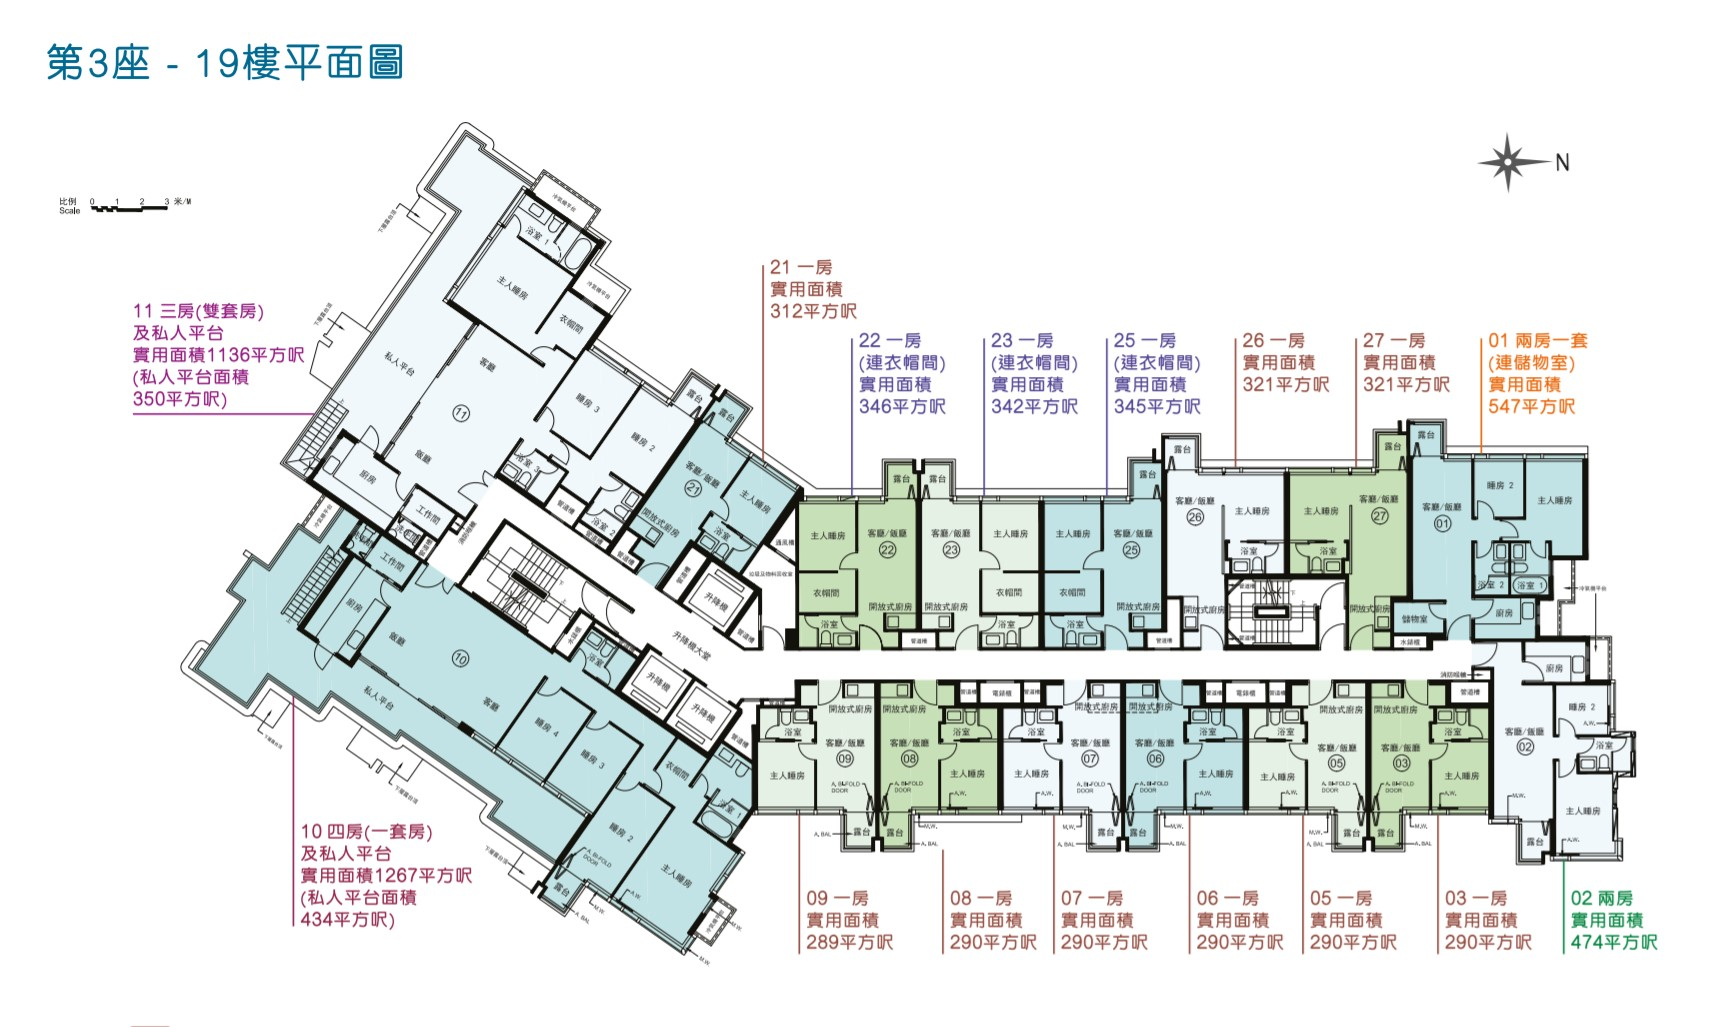
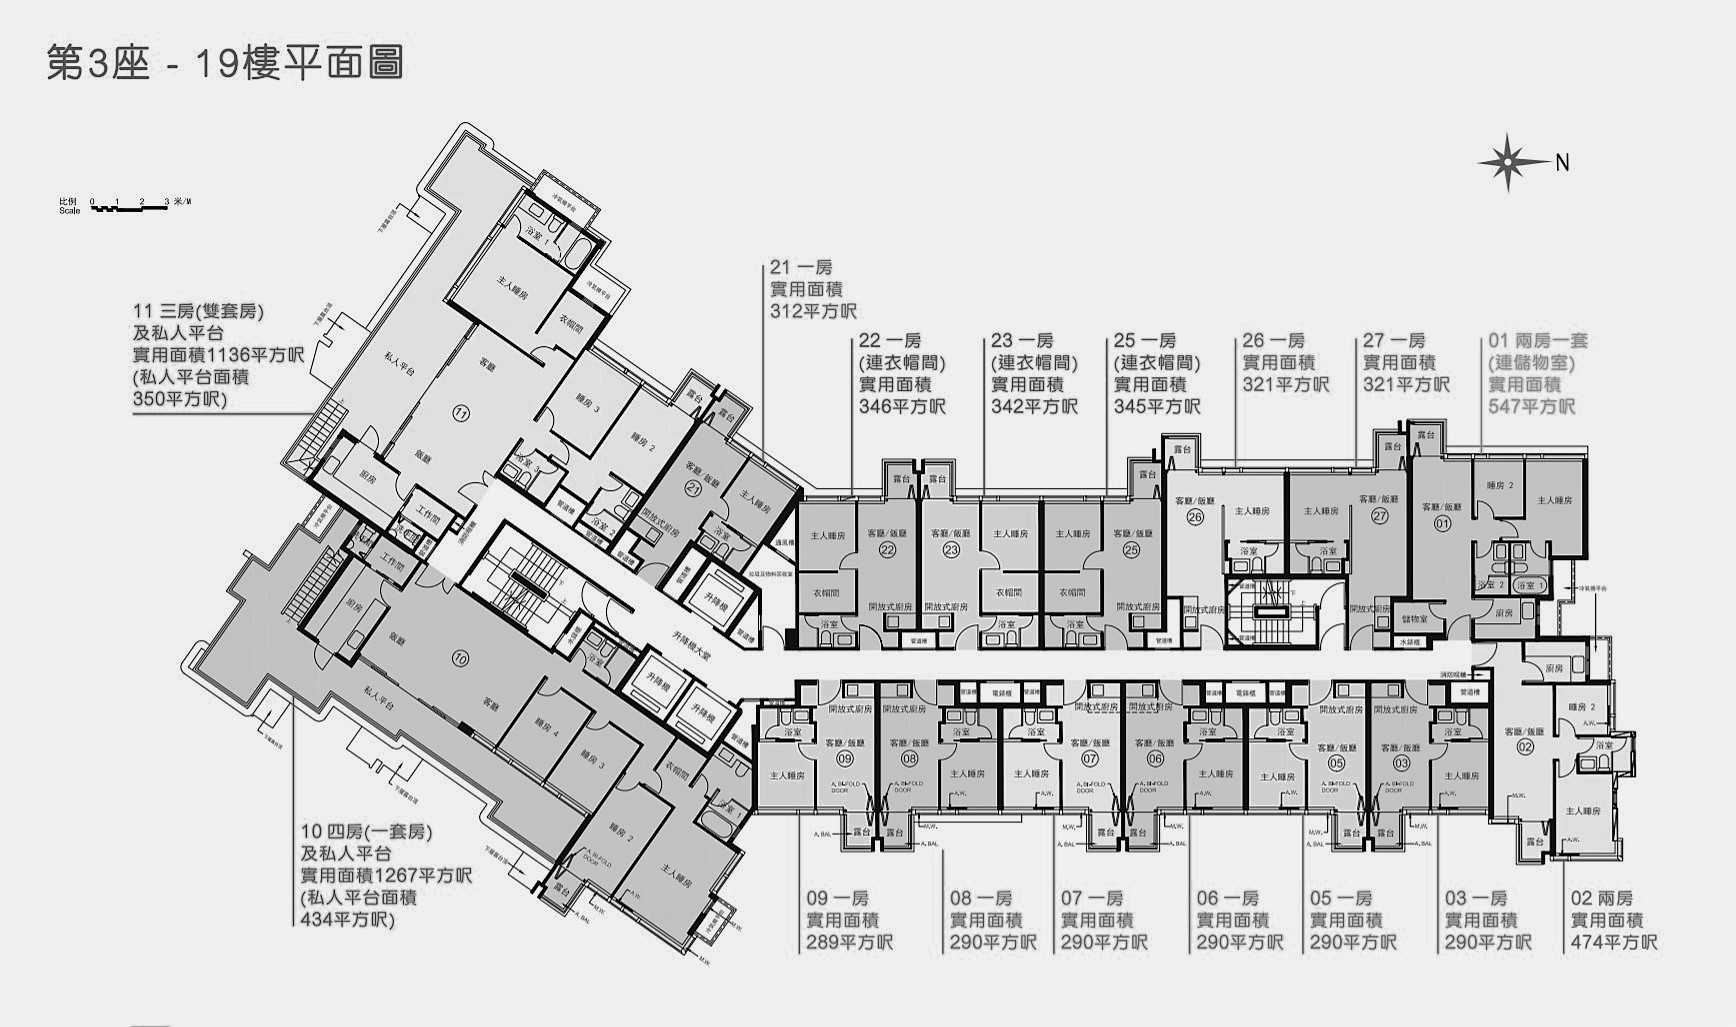
With wall extractor

diff --git a/Get_walls.py b/Get_walls.py
@@ -1,0 +1,56 @@
+#Import packages
+import os
+import cv2
+import numpy as np
+import tensorflow as tf
+import sys
+
+# This is needed since the notebook is stored in the object_detection folder.
+sys.path.append("..")
+
+# Import utilites
+# from utils import label_map_util
+# from utils import visualization_utils as vis_util
+
+# Name of the directory containing the object detection module we're using
+MODEL_NAME = 'inference_graph'
+IMAGE_NAME = 'WCH GBP.png'
+#Remove Small Items
+im_gray = cv2.imread(IMAGE_NAME, cv2.IMREAD_GRAYSCALE)
+(thresh, im_bw) = cv2.threshold(im_gray, 128, 255, cv2.THRESH_BINARY | cv2.THRESH_OTSU)
+thresh =170
+im_bw = cv2.threshold(im_gray, thresh, 255, cv2.THRESH_BINARY)[1]
+#find all your connected components
+nb_components, output, stats, centroids = cv2.connectedComponentsWithStats(im_bw, connectivity=8)
+#connectedComponentswithStats yields every seperated component with information on each of them, such as size
+#the following part is just taking out the background which is also considered a component, but most of the time we don't want that.
+sizes = stats[1:, -1]; nb_components = nb_components - 1
+
+# minimum size of particles we want to keep (number of pixels)
+#here, it's a fixed value, but you can set it as you want, eg the mean of the sizes or whatever
+min_size =100
+
+#your answer image
+img2 = np.zeros((output.shape))
+#for every component in the image, you keep it only if it's above min_size
+for i in range(0, nb_components):
+    if sizes[i] >= min_size:
+        img2[output == i + 1] = 255
+
+cv2.imshow('room detector', img2)
+#MorphologicalTransform
+kernel = np.ones((5, 5), np.uint8)
+dilation = cv2.dilate(img2, kernel)
+erosion = cv2.erode(img2, kernel, iterations=6)
+
+#cv2.imshow("img2", img2)
+cv2.imshow("Dilation", dilation)
+cv2.imwrite("Dilation.jpg", dilation)
+#cv2.imshow("Erosion", erosion)
+
+
+# Press any key to close the image
+cv2.waitKey(0)
+
+# Clean up
+cv2.destroyAllWindows()

diff --git a/Thershold.py b/Thershold.py
@@ -1,0 +1,24 @@
+#!/usr/bin/env python3
+# -*- coding: utf-8 -*-
+import cv2
+import numpy as np
+from matplotlib import pyplot as plt
+
+img = cv2.imread('WCH GBP.png', 0)
+img = cv2.medianBlur(img, 5)
+
+ret, th1 = cv2.threshold(img, 127, 255, cv2.THRESH_BINARY)
+th2 = cv2.adaptiveThreshold(img, 255, cv2.ADAPTIVE_THRESH_MEAN_C,\
+    cv2.THRESH_BINARY, 11, 2)
+th3 = cv2.adaptiveThreshold(img, 255, cv2.ADAPTIVE_THRESH_GAUSSIAN_C,\
+    cv2.THRESH_BINARY, 11, 2)
+
+titles = ['Original Image', 'Global Thresholding (v = 127)',
+            'Adaptive Mean Thresholding', 'Adaptive Gaussian Thresholding']
+images = [img, th1, th2, th3]
+
+for i in range(4):
+    plt.subplot(2, 2, i+1), plt.imshow(images[i], 'gray')
+    plt.title(titles[i])
+    plt.xticks([]), plt.yticks([])
+plt.show()

diff --git a/main.py b/main.py
@@ -81,7 +81,7 @@ def find_rooms(img, noise_removal_threshold=25, corners_threshold=0.1,
 
 
 #Read gray image
-img = cv2.imread("Screenshot 2021-07-11 003748.jpg", 0)
+img = cv2.imread("WCH GBP.png", 0)
 rooms, colored_house = find_rooms(img.copy())
 cv2.imshow('result', colored_house)
 cv2.waitKey()
